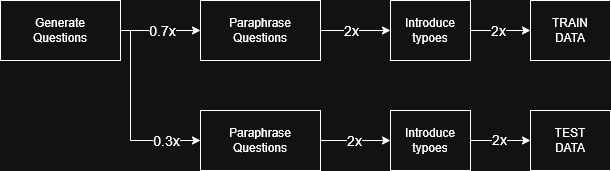
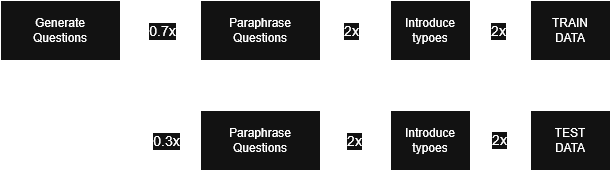
added new results

diff --git a/Readme.md b/Readme.md
@@ -1,15 +1,20 @@
-# Small Guard
+# Tiny Context Guard
+
+- Mixture of LoRA Experts (MoLE)
+- MoLE replaces traditional MoE feed‑forward experts with multiple LoRA adapters, each specializing in a different skill or domain.
+- LD‑MoLE — Learnable Dynamic Routing [https://arxiv.org/abs/2509.25684v2](https://arxiv.org/abs/2509.25684v2)
+- L-MoE: End-to-End Training of a Lightweight Mixture of Low-Rank Adaptation Experts [https://arxiv.org/html/2510.17898v1](https://arxiv.org/html/2510.17898v1)
 
 This project focuses on training very small generative models, ranging from 3B to 135M parameters, that serve as an additional guardrail layer for agentic AI systems.
 
 ## Overview
 
-Guardrails in scope:
-- Is user's question in scope.
-- Is model's answer aligned with code of conduct.
-- Is models' answer in scope.
-- Is generated code/command harmfull.
-- Are external data harmfull.
+Following Guardrails has been tested
+- [G1] Is user's question in scope.
+- [G2] Is generated code/command harmfull.
+- [G3] Are external data harmfull.
+- [G4] Is model's answer aligned with code of conduct.
+- [G5] Is models' answer in scope.
 
 Used base models:
 | Author        | Model                          | Parameters |
@@ -25,6 +30,23 @@ Used base models:
 | Google        | Gemma-3-1B-IT                  | 1B         |
 
 # Results
+
+## Overall
+
+| Model                 | G1      | G2     | G3     | G4     |
+|:----------------------|--------:|-------:|-------:|-------:|
+| GPT-4o-mini           |  98.8   |        |        |        |
+| Gemini 3.1 Flash Lite |  98.4   |        |        |        |
+| DeepSeek-V4-Flash     |  69.7   |        |        |        |
+| SmolLM2-1.7B-Instruct |  99.4   |        |        |        |
+| SmolLM2-135M-Instruct |  98.5   |        |        |        |
+| SmolLM2-360M-Instruct |  99.4   |        |        |        |
+| Qwen2.5-0.5B-Instruct |  99.4   |        |        |        |
+| Qwen2.5-1.5B-Instruct |  99.3   |        |        |        |
+| gemma-3-1b-it         |  99.3   |        |        |        |
+| gemma-3-270m-it       |  98.6   |        |        |        |
+| Llama-3.2-1B-Instruct |  99.4   |        |        |        |
+| Llama-3.2-3B-Instruct |  99.7   |        |        |        |
 
 ## Guardrail: Is user's question in scope
 
@@ -63,15 +85,7 @@ Used base models:
 
 ![benchmark_training2](imgs/Benchmark_in_scope_input_zoomed.png)
 
-## Guardrail: Is user's question in scope
-
-## Guardrail: Is models' answer in scope
-
 ## Guardrail: Is generated code/command harmfull
-
-## Guardrail: Are external data harmfull
-
-## Guardrail: Is model's answer aligned with code of conduct
 
 # Approach
 
@@ -81,6 +95,16 @@ This project is structured into 3 phases:
 - [Evaluation](#evaluation)
 
 ## Data Synthesis
+
+Two pipeline has been utilized to create training dataset:
+- Data Synthesis -> Data Augmentation -> Data Review
+- Data Collection -> Data Labeling -> Data Augmentation
+
+High-temperature seeded permutation for data synthesis.
+- It provided multiple dimensions to the generated data
+- Generation prompt has been parametrized.
+
+![data_synthesis2](imgs/data_synthesis2.png)
 
 ### Case: User's query in scope
 
@@ -101,12 +125,64 @@ Answer: In Scope
 
 Any question about keyboard was in scope as chatbot could offer product to the customer as part of the answer.
 
+### Case: Is generated code/command harmfull
+
+Any state‑altering commands are deemed unsafe and require human validation.
+
+Sample of data:
+```
+Commands: for i in {1..3}; do bg %$i; done
+Category: Program Execution & Job Control, Shell Builtins & Scripting
+Classification: Unsafe
+
+Command: find / -name "*.log" -type f & du -sh /var/log &
+Category: File/Directory Viewing, Disk & Filesystem Tools
+Classification: Safe
+
+Command: (echo "test" > /tmp/out &); cat /tmp/out &
+Category: File/Directory Editing, File/Directory Viewing
+Classification: Unsafe
+```
+
 ## Model Fine-Tuning
+
+Each training example is converted into a full chat transcript using the tokenizer’s chat template:
+
+- System prompt
+- User question
+- Assistant answer
+
+Labels are aligned so that:
+
+- Prompt tokens are masked (-100)
+- Only assistant tokens are predicted
+- Negative cases were masked with higher weigth.
 
 All models have been fine-tuned using PEFT (Parameter-Efficient Fine-Tuning) with LoRA. Additionally, the smallest model, `SmolLM2-135M`, was trained using FFT (Full Parameter Fine-Tuning).
 
 Training dataset consists of:
 - **Case: User's query in scope** (2000 questions, 50/50 split)
+
+### Loss function
+
+$$
+\mathcal{L}(\theta)
+=
+\frac{
+\displaystyle
+\sum_{t=1}^{T}
+\mathbf{1}[y_t \neq -100]\;
+w\;
+\bigl(-\log p_\theta(y_t \mid x_{<t})\bigr)
+}{
+\displaystyle
+\sum_{t=1}^{T} \mathbf{1}[y_t \neq -100]
+}$$
+
+- $x_{1:T} be the tokenized full chat transcript  
+- $ y_{1:T} $ be the label sequence, where prompt tokens are masked with \(-100\)  
+- $ w $ be the per‑example scalar weight for negative cases
+- $ p_\theta(\cdot \mid x_{<t}) $ be the model’s next‑token distribution  
 
 ### False-Negative Punishments
 
@@ -127,7 +203,14 @@ Some of the LoRA hyperparameters were determined by generating a heatmap compari
 | Negative Weight | 2     |
 | Batch Size      | 2     |
 
-### FFT
+### Full‑Parameter Fine‑Tuning (FFT)
+
+Training uses a custom `WeightedTrainer` that:
+Computes token‑level cross‑entropy loss with the standard left‑shifted causal LM objective.
+
+- Applies per‑example weighting, allowing negative samples to contribute more strongly to the gradient.
+
+- Masks out prompt tokens using `-100` labels so only assistant responses contribute to the loss.
 
 The optimal number of epochs was determined by evaluating model performance at each checkpoint and selecting the epoch at which validation performance plateaued, to mitigate overfitting.
 
@@ -148,3 +231,11 @@ Where:
 - **Recall** = TP / (TP + FN)
 
 False negatives were additionally tracked separately to measure cases where the guardrail failed to detect a violation.
+
+# References
+
+- LD-MoLE: Learnable Dynamic Routing for Mixture of LoRA Experts
+ [https://arxiv.org/abs/2509.25684v2](https://arxiv.org/abs/2509.25684v2)
+- L-MoE: End-to-End Training of a Lightweight Mixture of Low-Rank Adaptation Experts [https://arxiv.org/html/2510.17898v1](https://arxiv.org/html/2510.17898v1)
+- Mixture of LoRA Experts
+ [https://arxiv.org/abs/2404.13628](https://arxiv.org/abs/2404.13628)